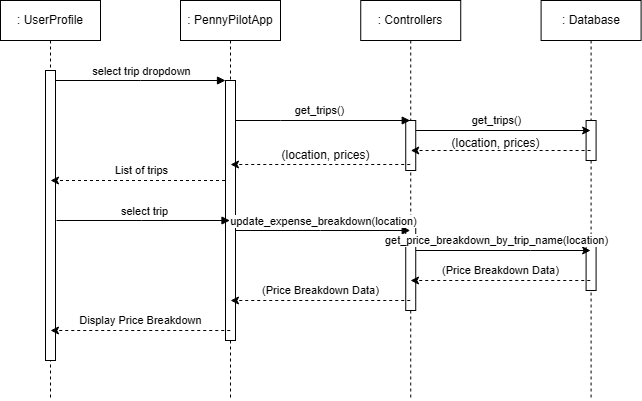
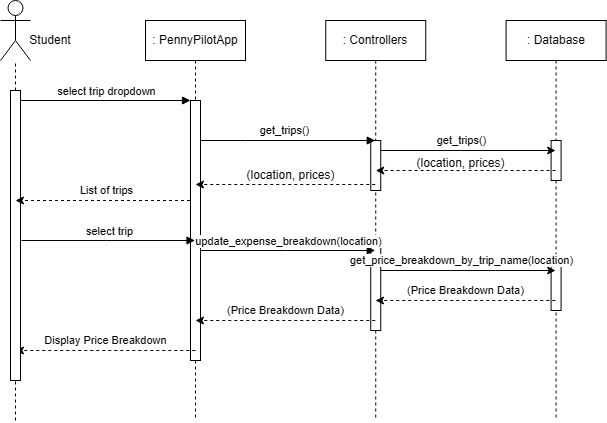
Updated Sequence Diagram and Use Case Description

diff --git a/Reports/Deliverable5.md b/Reports/Deliverable5.md
@@ -37,13 +37,15 @@ application logic, and data management responsibilities.
 
 ![image](Deliverable5_images/Sequence%20Diagram.png)
 
+## Use Case Description
+
 | Use Case         | Viewing Trip Details                                                                                                                      |
 |------------------|-------------------------------------------------------------------------------------------------------------------------------------------|
-| Summary          | This use case describes the process where the user selects a trip from the dropdown of trips, and then the application returns the trip price breakdown. |
+| Use Case Description | This use case describes the process where the student views trip details from the application. This is done by selecting the trip dropdown to provide the user with a list of trips. After selecting the trip, the screen will populate with a price breakdown for the trip the student selected. |
 | Actors           | Student                                                                                                                                   |
 | Preconditions    | Student is logged into the PennyPilot app and at least one trip exists in the database.                                                   |
-| Basic sequence   | 1. **Student** clicks on the trip dropdown in the PennyPilotApp interface.  <br> 2. **PennyPilotApp** sends a request to **Controllers** to retrieve available trips via the `get_trips()` method.  <br> 3. **Controllers** request trip data from the **Database** using the `get_trips()` method.  <br> 4. **Database** returns a list of trips to the **Controllers**.  <br> 5. **Controllers** pass the list of trips to the **PennyPilotApp**.  <br> 6. **PennyPilotApp** displays the list of trips in a dropdown menu.  <br> 7. **Student** selects a specific trip from the dropdown.  <br> 8. **PennyPilotApp** calls the `update_expense_breakdown(location)` function in the **Controllers**.  <br> 9. **Controllers** call the `get_price_breakdown_by_trip_name(location)` function in the **Database**.  <br> 10. **Database** returns the price breakdown to **Controllers**.  <br> 11. **Controllers** return the price breakdown data to the **PennyPilotApp**.  <br> 12. **PennyPilotApp** displays the price breakdown to the **Student**. |
-| Alternate Sequence | 1. If no trips are available, the application will throw an error and the user will not be able to select any trips |
+| Basic scenario   | 1. **Student** clicks on the trip dropdown in the PennyPilotApp interface.  <br> 2. **PennyPilotApp** sends a request to **Controllers** to retrieve available trips via the `get_trips()` method.  <br> 3. **Controllers** request trip data from the **Database** using the `get_trips()` method.  <br> 4. **Database** returns a list of trips to the **Controllers**.  <br> 5. **Controllers** pass the list of trips to the **PennyPilotApp**.  <br> 6. **PennyPilotApp** displays the list of trips in a dropdown menu.  <br> 7. **Student** selects a specific trip from the dropdown.  <br> 8. **PennyPilotApp** calls the `update_expense_breakdown(location)` function in the **Controllers**.  <br> 9. **Controllers** call the `get_price_breakdown_by_trip_name(location)` function in the **Database**.  <br> 10. **Database** returns the price breakdown to **Controllers**.  <br> 11. **Controllers** return the price breakdown data to the **PennyPilotApp**.  <br> 12. **PennyPilotApp** displays the price breakdown to the **Student**. |
+| Alternate scenario | 1. If no trips are available, the application will throw an error and the user will not be able to select any trips |
 | Postconditions   | The user successfully views the detailed price breakdown of the selected trip.                                                           |
 
 # Design Patterns     
